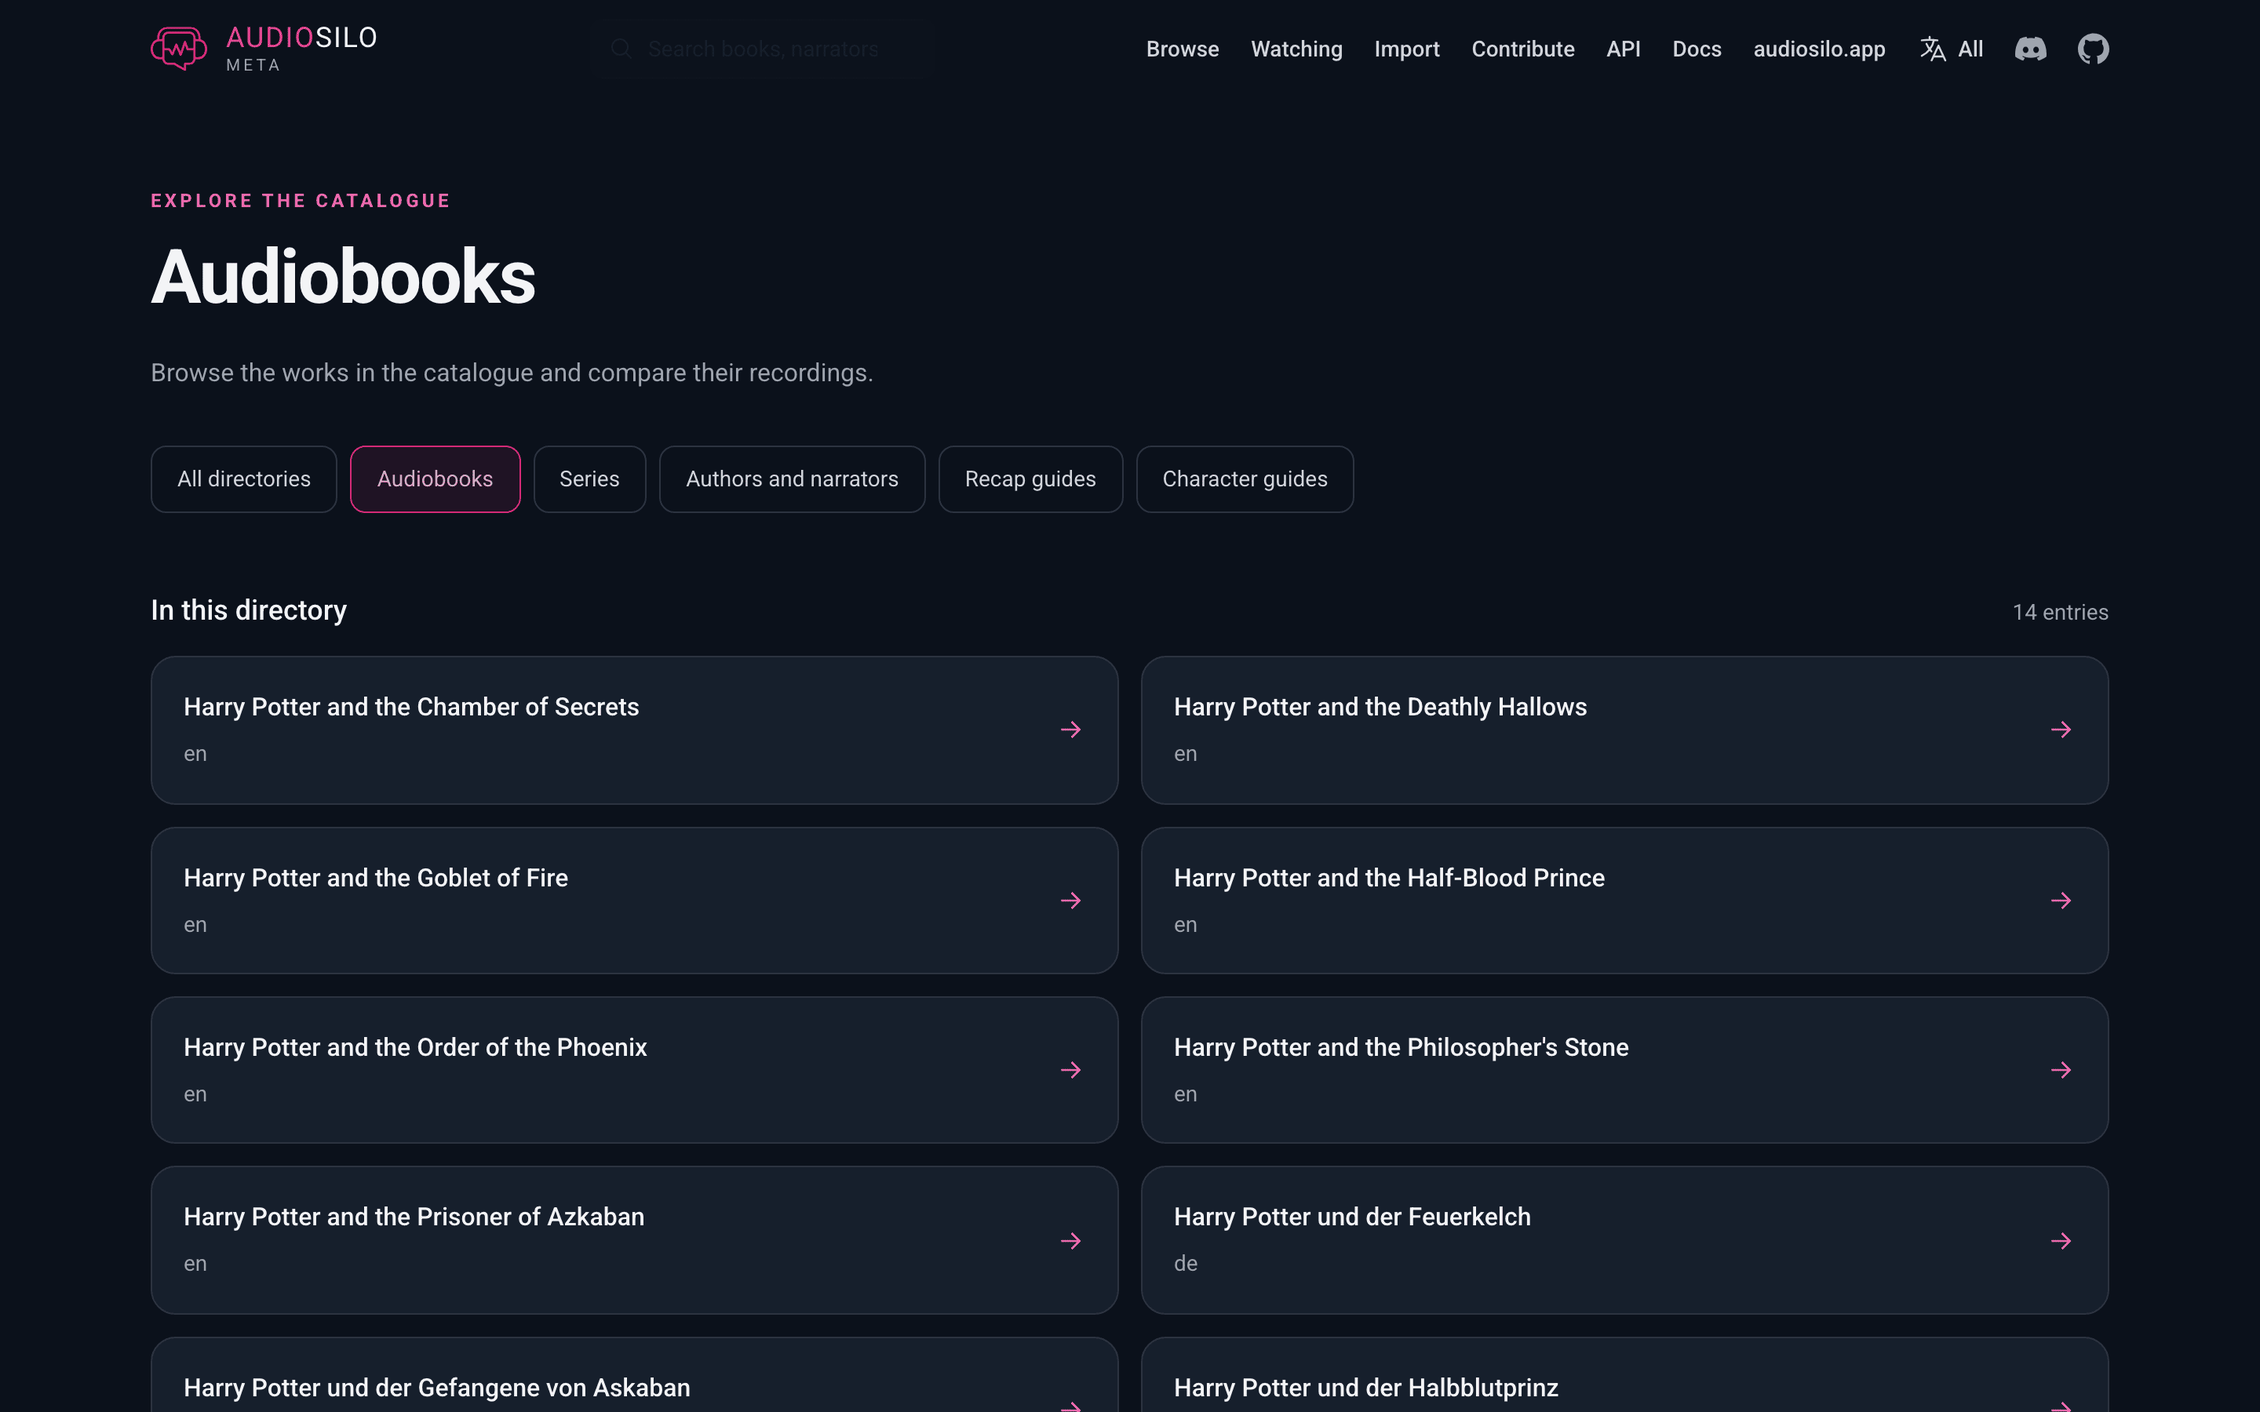
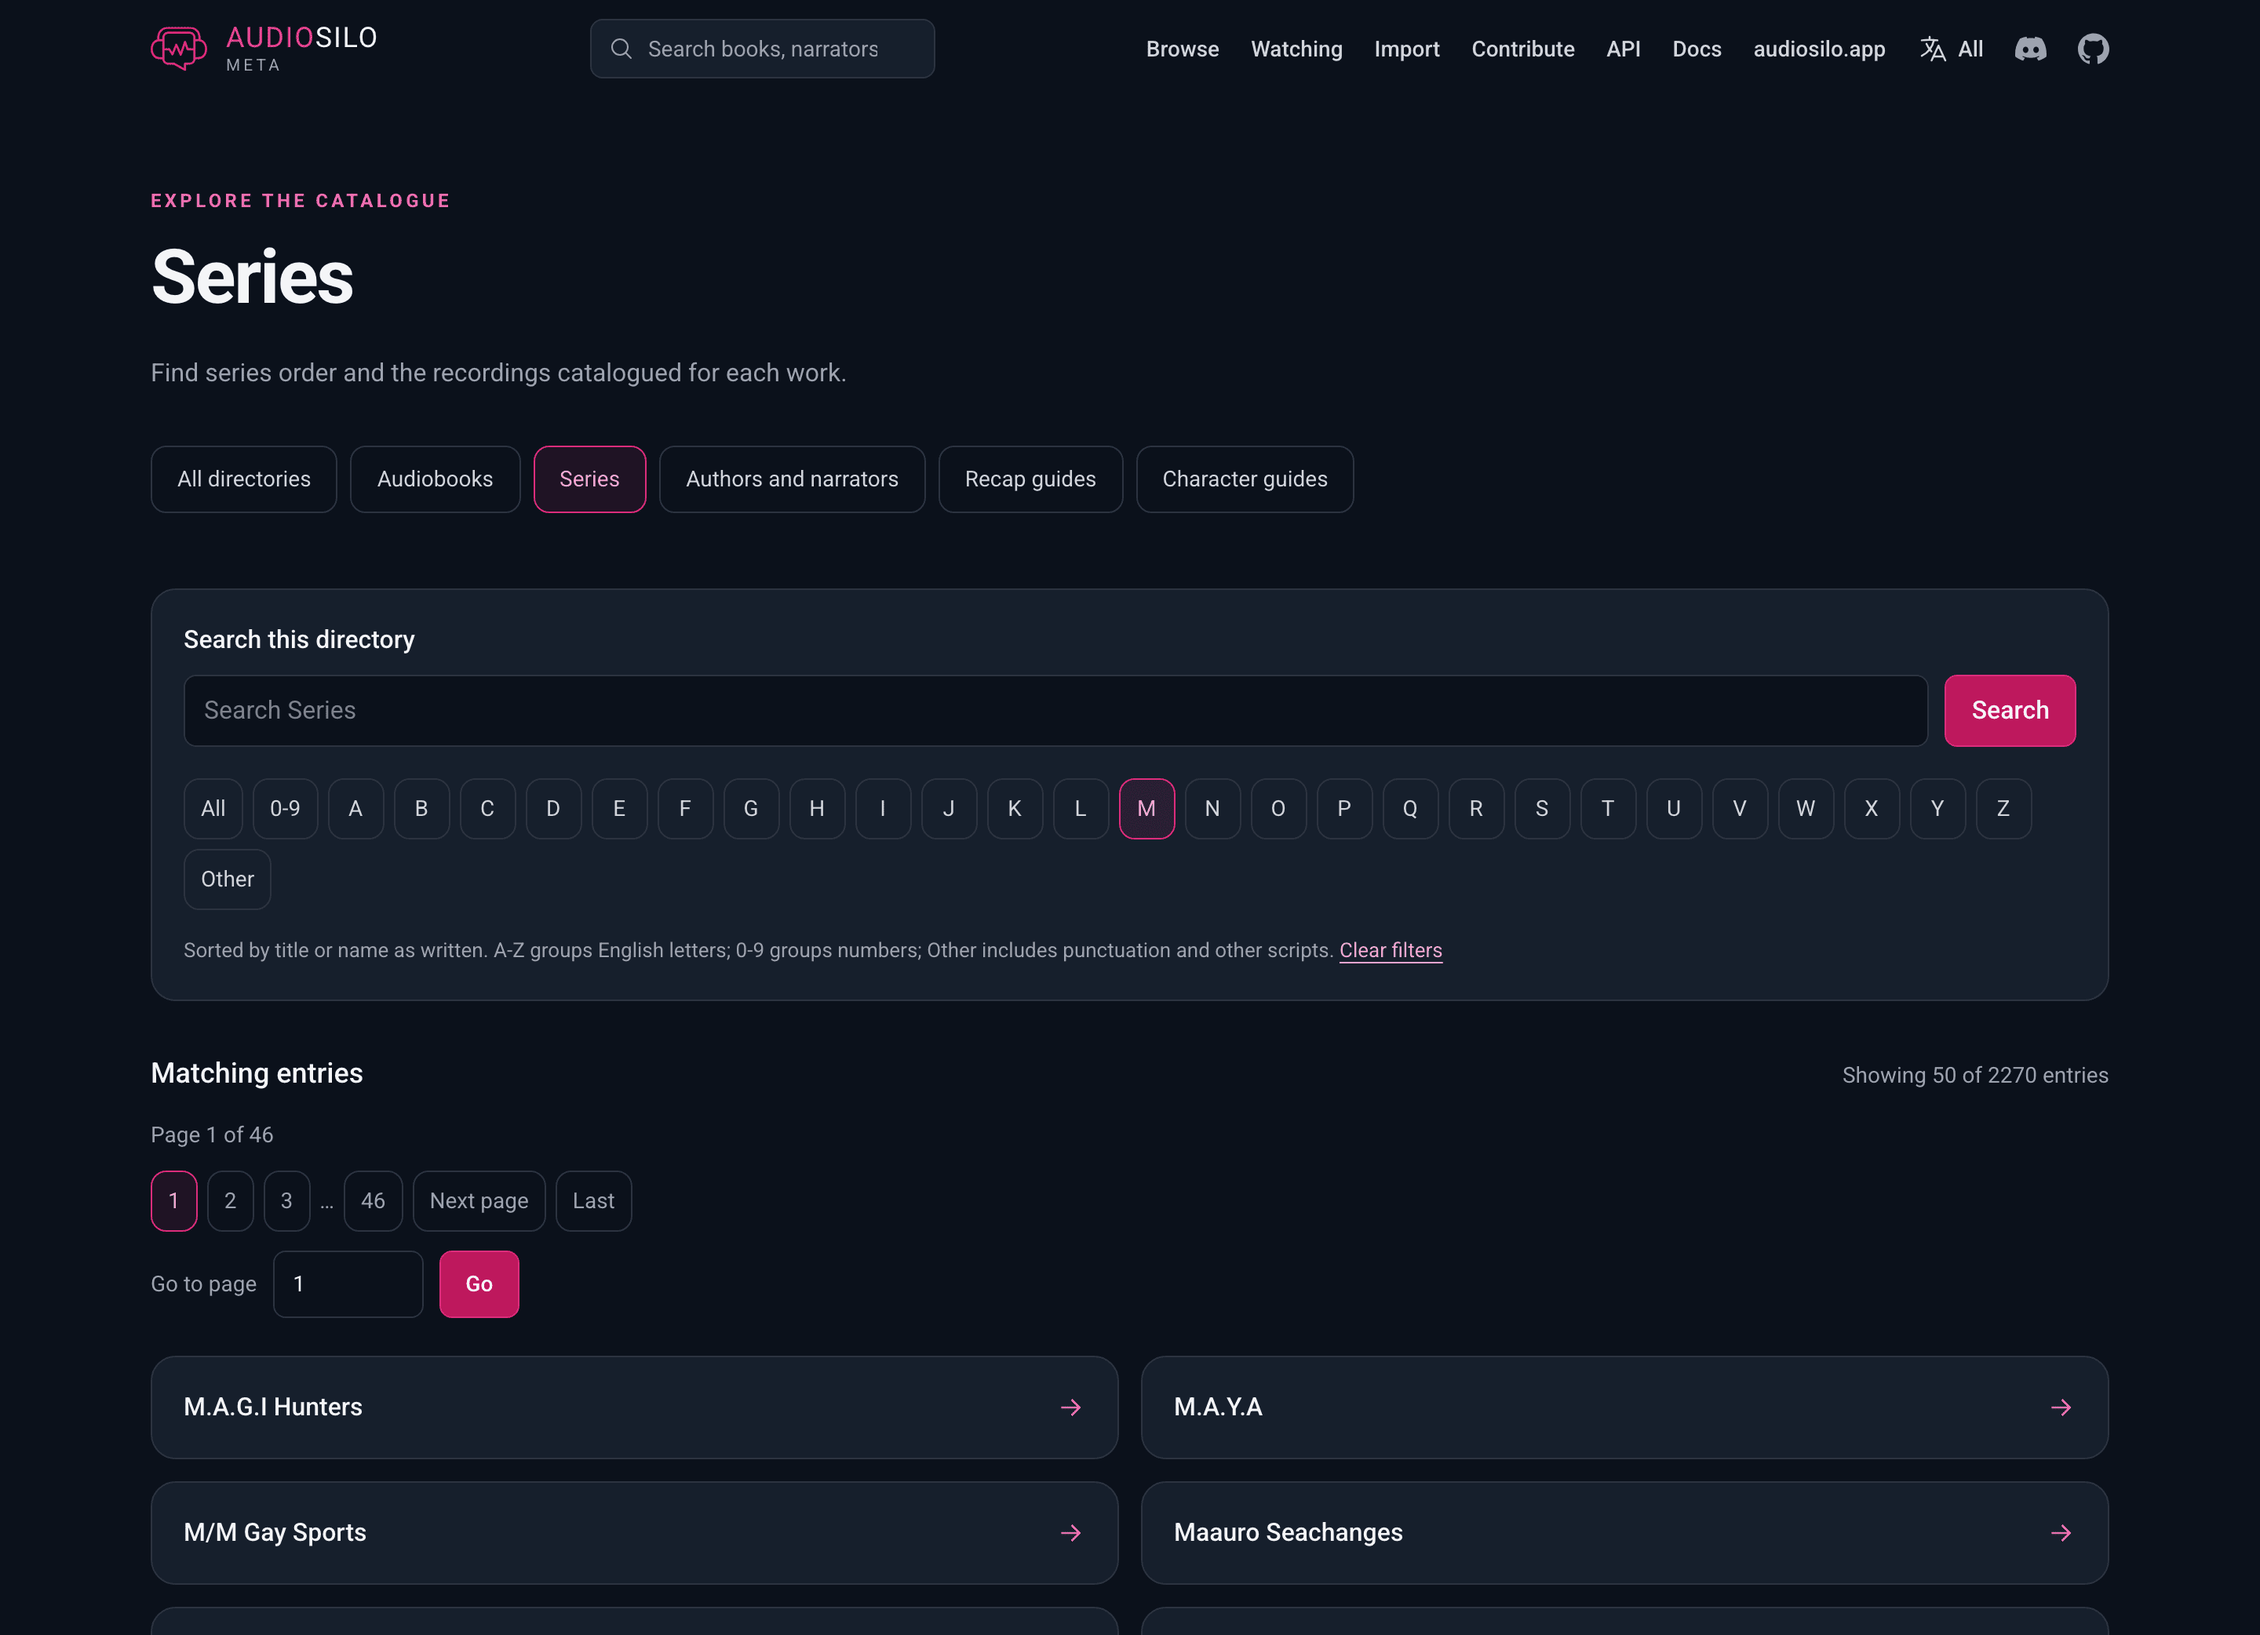
docs(meta): describe catalogue discovery controls

diff --git a/docs-developers/meta/api.md b/docs-developers/meta/api.md
@@ -1551,14 +1551,37 @@ before React hydrates. These are HTML routes, not additional JSON endpoints:
 | Route | Content |
 |---|---|
 | `/browse` | Directory links to works, series, people and existing guides |
-| `/browse/works`, `/browse/series`, `/browse/people`, `/browse/characters`, `/browse/recaps` | Up to 50 entries per page, in stable id order |
+| `/browse/works`, `/browse/series`, `/browse/people`, `/browse/characters`, `/browse/recaps` | Up to 50 entries per page, sorted by displayed title/name (`COLLATE NOCASE`), then id |
 | `/works/{id}` | Every recording, comparison links to `#recording-{rid}`, and detailed cards |
 | `/works/{id}/characters`, `/works/{id}/recap` | Existing community guides with closed spoiler disclosures |
 | `/series/{id}` | Up to 50 ordered works and their bounded listening-guide alternatives |
 | `/people/{id}` | Authorship/translation lists and 50 narrated recording credits per page |
 | `/works/{id}/recordings/{rid}/chapters` | Up to 100 chapter titles, starts and durations for a validated recording |
 
-Paged routes use `?page=N`; page one omits the query and later pages keep it in
+The five browse directories accept `q` (search within that directory), `letter`
+(`A`-`Z`, `0-9` or `Other`; omitted means All) and `page`. Search and letter
+filters compose. A-Z groups ASCII initials without regard to case, 0-9 groups
+numeric initials, and Other includes punctuation and non-ASCII initials. Guide
+directories search only works with the corresponding guide. Search uses the
+same escaped, bounded FTS expression as public search; the public JSON API is
+unchanged. `BrowseFiltered` in `pkg/query/discovery.go` implements these reads;
+`internal/serve/catalogue.go` handles the HTML controls and URLs.
+
+`q` must be valid UTF-8 and at most 256 bytes before whitespace is trimmed and
+collapsed. Repeated `q`/`letter`, invalid letter values, malformed query encoding,
+or a raw query string over 8,192 bytes return **400**. Letter values normalize
+case (`m` becomes `M`, `other` becomes `Other`); empty/`all` means no letter
+filter. Empty normalized searches are omitted. Canonical directory query order
+is `letter`, `page`, `q`, with page one omitted. Valid alternate spellings, query
+ordering and extra parameters redirect to that URL. Each filtered page has its
+own canonical and ETag; a nonempty normalized `q` adds `noindex,follow`, while
+letter-only pages remain indexable.
+
+Directory search and letter changes reset to page one. Previous/next,
+first/last, nearby numbered links and native page-jump forms retain `q` and
+`letter`; the controls work without JavaScript. Clear filters removes both.
+
+Paged routes use `?page=N`; page one omits `page` and later pages keep it in
 their canonical URL and normal previous/next links. Malformed, empty, repeated,
 non-positive or above-1,000,000 page values are **400**. Out-of-range pages and
 missing entities/recordings are **404**. Empty catalogued directories and

diff --git a/docs-users/community/meta-site.md b/docs-users/community/meta-site.md
@@ -24,10 +24,19 @@ punctuation: "enders game" finds *Ender's Game*.
 
 **Browse** in the header, home page and footer opens directories of audiobooks,
 series, authors and narrators, character guides and recap guides. Each directory
-has ordinary links and pages of up to 50 entries, so you can explore without a
-search term.
+has its own **Search this directory** box and **All**, **A-Z**, **0-9** and
+**Other** links. Search and letter filters work together; **Clear filters**
+returns to the full directory. Entries are sorted by their displayed title or
+name as written. A-Z groups English initials, 0-9 groups
+numeric initials, and Other includes punctuation and other scripts.
 
-![The audiobook browse directory](/img/screenshots/meta/browse.png)
+Pages hold up to 50 entries. Use the numbered links, **First** and **Last**, or
+enter a number in **Go to page** to jump directly through a large directory.
+Page links and jumps keep your search and letter filter; changing either filter
+starts again at page one. These controls and the catalogue links work with
+JavaScript disabled.
+
+![The series directory filtered to M, with search, letter filters and page navigation](/img/screenshots/meta/browse.png)
 
 ![Search results for a series query](/img/screenshots/meta/search.png)
 
